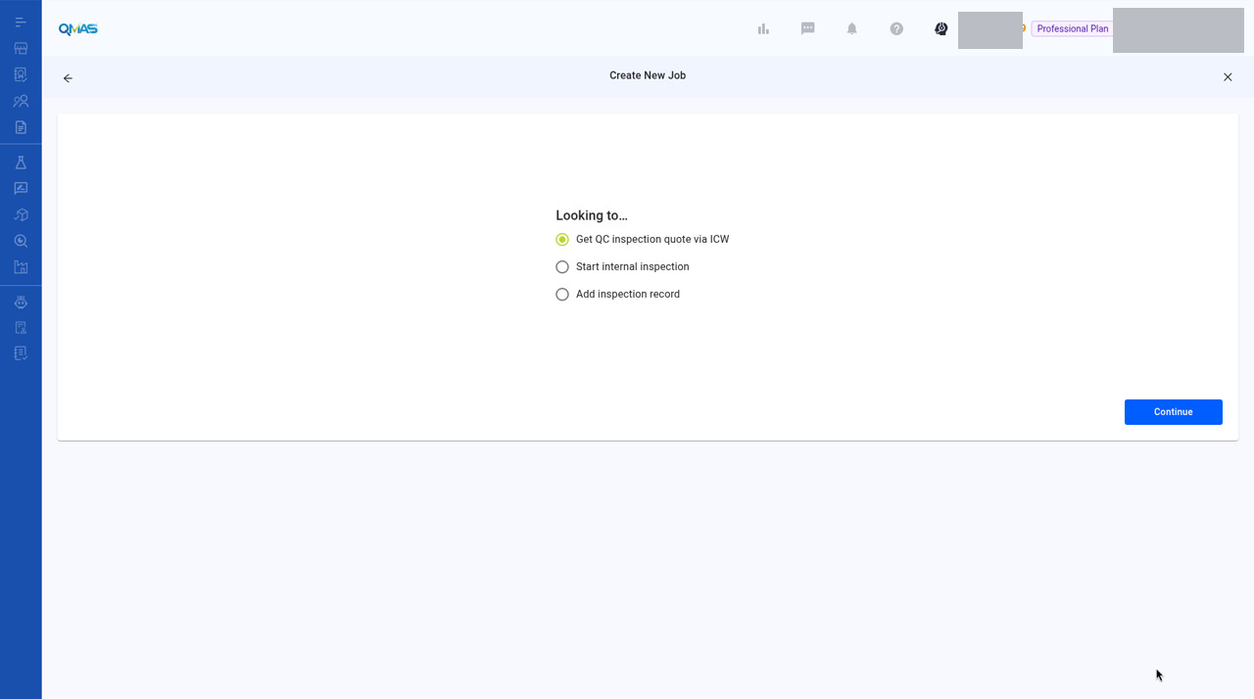
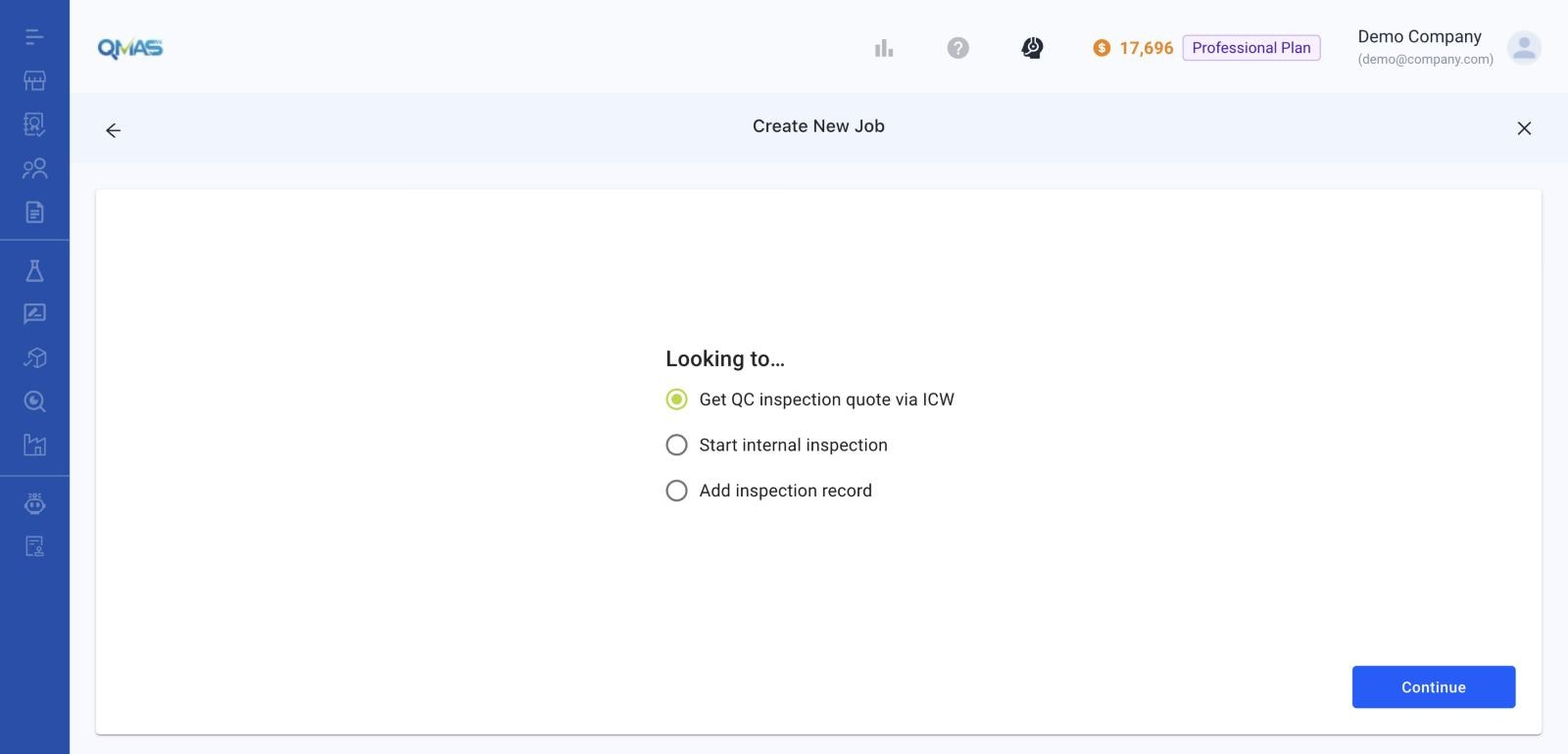
Recapture QC Inspection with demo data in HD

diff --git a/export/print/qc-inspection.html b/export/print/qc-inspection.html
@@ -467,27 +467,31 @@ caption.visually-hidden { /* name comes from the region label */ }
 <h2>Step-by-step</h2>
 <h3 id="1-open-qc-inspection">1. Open QC Inspection</h3>
 <p>In the left menu, open <strong>QC Inspection</strong>. The charts show inspection results, service providers and job types. Tabs list <strong>All Job</strong>, <strong>3rd Party Job</strong>, <strong>Inhouse Record</strong> and <strong>Draft</strong>. Click <strong>Create Job</strong>.</p>
-<figure class="shot"><img src="../../assets/reviewed/qc-inspection/01-list.jpg" alt="QC Inspection list with Create Job." width="1280" height="714" fetchpriority="high" decoding="async"><figcaption>QC Inspection list with Create Job.</figcaption></figure>
-<figure class="shot"><img src="../../assets/reviewed/qc-inspection/supplemental-3rd-party-tab.jpg" alt="QC Inspection — 3rd Party Job tab." width="1280" height="714" loading="lazy" decoding="async"><figcaption>QC Inspection — 3rd Party Job tab.</figcaption></figure>
-<figure class="shot"><img src="../../assets/reviewed/qc-inspection/supplemental-draft-tab.jpg" alt="QC Inspection — Draft tab." width="1280" height="714" loading="lazy" decoding="async"><figcaption>QC Inspection — Draft tab.</figcaption></figure>
+<figure class="shot"><img src="../../assets/reviewed/qc-inspection/01-list.jpg" alt="QC Inspection list, searched by job ID, with Create Job." width="1528" height="415" fetchpriority="high" decoding="async"><figcaption>QC Inspection list, searched by job ID, with Create Job.</figcaption></figure>
 <h3 id="2-choose-what-you-are-looking-for">2. Choose what you are looking for</h3>
 <div class="table-wrap" tabindex="0" role="region" aria-label="Option, Use it when"><table><thead><tr><th scope="col">Option</th><th scope="col">Use it when</th></tr></thead><tbody><tr><td>Get QC inspection quote via ICW</td><td>You want ICW to arrange a third-party inspector. This guide.</td></tr><tr><td>Start internal inspection</td><td>Your own QC team will inspect. See the Internal QC Inspection guide.</td></tr><tr><td>Add inspection record</td><td>The inspection is already done and you want to record the result.</td></tr></tbody></table></div>
 <p>Choose <strong>Get QC inspection quote via ICW</strong> and click <strong>Continue</strong>.</p>
-<figure class="shot"><img src="../../assets/reviewed/qc-inspection/02-looking-to.jpg" alt="Create New Job — Looking to…" width="1280" height="714" loading="lazy" decoding="async"><figcaption>Create New Job — Looking to…</figcaption></figure>
+<figure class="shot"><img src="../../assets/reviewed/qc-inspection/02-looking-to.jpg" alt="Create New Job — Looking to…" width="1600" height="770" loading="lazy" decoding="async"><figcaption>Create New Job — Looking to…</figcaption></figure>
 <h3 id="3-inspection-requirement">3. Inspection Requirement</h3>
 <ul><li><strong>Inspection Date</strong>.</li><li><strong>Inspection type</strong>: Final Random, Loading, During Production, Re-Inspection, Initial Production, Fabric, 100% or Vendor Own Inspection.</li><li><strong>Inspection Level</strong>: General Inspection Level I–III or Special Level S-1 to S-4.</li><li><strong>Inspection AQL</strong>: Critical, Major and Minor levels. They apply to all products in this job by default.</li><li><strong>Target Budget</strong> (currency and amount) and <strong>Service Provider Preference</strong>. Leave “No preference, ICW will match you with the best inspector” selected if you have no preferred provider.</li></ul>
-<figure class="shot"><img src="../../assets/reviewed/qc-inspection/supplemental-step1-requirement-blank.jpg" alt="Create Job step 1 — Inspection Requirement, including Target Budget and Service Provider Preference." width="1280" height="714" loading="lazy" decoding="async"><figcaption>Create Job step 1 — Inspection Requirement, including Target Budget and Service Provider Preference.</figcaption></figure>
+<figure class="shot"><img src="../../assets/reviewed/qc-inspection/04-step1-filled.jpg" alt="Step 1 Inspection Requirement filled in. Click Save to keep a draft, or Next." width="1600" height="1210" loading="lazy" decoding="async"><figcaption>Step 1 Inspection Requirement filled in. Click Save to keep a draft, or Next.</figcaption></figure>
 <h3 id="4-report-details">4. Report Details</h3>
 <p>Click <strong>Add Product</strong>, search for the product, click <strong>Select</strong>, then <strong>Confirm</strong>.</p>
+<figure class="shot"><img src="../../assets/reviewed/qc-inspection/05-select-product.jpg" alt="Select related product(s) — search by name, item no., supplier or factory." width="888" height="892" loading="lazy" decoding="async"><figcaption>Select related product(s) — search by name, item no., supplier or factory.</figcaption></figure>
 <p>For each product, fill in the <strong>PO</strong> details: customer name, customer PO #, PO #, order quantity and number of cartons. Use <strong>Add New PO</strong> for more POs, <strong>Add Product</strong> for more products, and <strong>Add Report</strong> or <strong>Duplicate Report</strong> if you need separate reports. Tick <strong>Signed Sample Available</strong> if there is one. Click <strong>Next</strong>.</p>
+<figure class="shot"><img src="../../assets/reviewed/qc-inspection/06-step2-report.jpg" alt="Report 1 with one product and its PO." width="1600" height="1240" loading="lazy" decoding="async"><figcaption>Report 1 with one product and its PO.</figcaption></figure>
 <h3 id="5-supplier-factory">5. Supplier &amp; Factory</h3>
 <p>Click <strong>Add Supplier</strong> and select the supplier. Then click <strong>Select Existing Factory</strong> and choose the factory where the inspection will take place. Check the contact person, phone and email for each. Click <strong>Next</strong>.</p>
+<figure class="shot"><img src="../../assets/reviewed/qc-inspection/07-step3-supplier-factory.jpg" alt="Supplier and factory selected, with contact details." width="1600" height="1270" loading="lazy" decoding="async"><figcaption>Supplier and factory selected, with contact details.</figcaption></figure>
 <h3 id="6-additional-information">6. Additional Information</h3>
 <p>Upload reference files such as tech packs or previous reports, and write any special requirement in <strong>Remark</strong>. Click <strong>Next</strong>.</p>
+<figure class="shot"><img src="../../assets/reviewed/qc-inspection/08-step4-additional.jpg" alt="Step 4 Additional Information." width="1600" height="930" loading="lazy" decoding="async"><figcaption>Step 4 Additional Information.</figcaption></figure>
 <h3 id="7-review-submit">7. Review &amp; Submit</h3>
 <p>Check the summary. Click <strong>Edit</strong> on any section to change it. Click <strong>Submit</strong>.</p>
+<figure class="shot"><img src="../../assets/reviewed/qc-inspection/09-step5-review.jpg" alt="Step 5 Review &amp; Submit." width="1600" height="2330" loading="lazy" decoding="async"><figcaption>Step 5 Review &amp; Submit.</figcaption></figure>
 <h3 id="8-done-job-detail">8. Done — job detail</h3>
 <p>QMAS shows “Create job successfully!” and opens the job. It has a Job ID and starts as <strong>Under Review</strong>. The <strong>Quotes</strong>, <strong>Reports</strong>, <strong>Attachments</strong> and <strong>Invoices</strong> tabs follow the job.</p>
+<figure class="shot"><img src="../../assets/reviewed/qc-inspection/10-job-detail.jpg" alt="The new inspection job, Under Review." width="1600" height="900" loading="lazy" decoding="async"><figcaption>The new inspection job, Under Review.</figcaption></figure>
 <h2>Tips</h2>
 <aside class="tip"><p>Click <strong>Save</strong> on any step to keep a draft. Drafts are on the <strong>Draft</strong> tab.</p></aside>
 <aside class="tip"><p>Submit well before the inspection date so there is time for quoting and booking.</p></aside>

diff --git a/export/print/qmas-user-guide.html b/export/print/qmas-user-guide.html
@@ -979,27 +979,31 @@ caption.visually-hidden { /* name comes from the region label */ }
 <h2>Step-by-step</h2>
 <h3 id="1-open-qc-inspection">1. Open QC Inspection</h3>
 <p>In the left menu, open <strong>QC Inspection</strong>. The charts show inspection results, service providers and job types. Tabs list <strong>All Job</strong>, <strong>3rd Party Job</strong>, <strong>Inhouse Record</strong> and <strong>Draft</strong>. Click <strong>Create Job</strong>.</p>
-<figure class="shot"><img src="../../assets/reviewed/qc-inspection/01-list.jpg" alt="QC Inspection list with Create Job." width="1280" height="714" fetchpriority="high" decoding="async"><figcaption>QC Inspection list with Create Job.</figcaption></figure>
-<figure class="shot"><img src="../../assets/reviewed/qc-inspection/supplemental-3rd-party-tab.jpg" alt="QC Inspection — 3rd Party Job tab." width="1280" height="714" loading="lazy" decoding="async"><figcaption>QC Inspection — 3rd Party Job tab.</figcaption></figure>
-<figure class="shot"><img src="../../assets/reviewed/qc-inspection/supplemental-draft-tab.jpg" alt="QC Inspection — Draft tab." width="1280" height="714" loading="lazy" decoding="async"><figcaption>QC Inspection — Draft tab.</figcaption></figure>
+<figure class="shot"><img src="../../assets/reviewed/qc-inspection/01-list.jpg" alt="QC Inspection list, searched by job ID, with Create Job." width="1528" height="415" fetchpriority="high" decoding="async"><figcaption>QC Inspection list, searched by job ID, with Create Job.</figcaption></figure>
 <h3 id="2-choose-what-you-are-looking-for">2. Choose what you are looking for</h3>
 <div class="table-wrap" tabindex="0" role="region" aria-label="Option, Use it when"><table><thead><tr><th scope="col">Option</th><th scope="col">Use it when</th></tr></thead><tbody><tr><td>Get QC inspection quote via ICW</td><td>You want ICW to arrange a third-party inspector. This guide.</td></tr><tr><td>Start internal inspection</td><td>Your own QC team will inspect. See the Internal QC Inspection guide.</td></tr><tr><td>Add inspection record</td><td>The inspection is already done and you want to record the result.</td></tr></tbody></table></div>
 <p>Choose <strong>Get QC inspection quote via ICW</strong> and click <strong>Continue</strong>.</p>
-<figure class="shot"><img src="../../assets/reviewed/qc-inspection/02-looking-to.jpg" alt="Create New Job — Looking to…" width="1280" height="714" loading="lazy" decoding="async"><figcaption>Create New Job — Looking to…</figcaption></figure>
+<figure class="shot"><img src="../../assets/reviewed/qc-inspection/02-looking-to.jpg" alt="Create New Job — Looking to…" width="1600" height="770" loading="lazy" decoding="async"><figcaption>Create New Job — Looking to…</figcaption></figure>
 <h3 id="3-inspection-requirement">3. Inspection Requirement</h3>
 <ul><li><strong>Inspection Date</strong>.</li><li><strong>Inspection type</strong>: Final Random, Loading, During Production, Re-Inspection, Initial Production, Fabric, 100% or Vendor Own Inspection.</li><li><strong>Inspection Level</strong>: General Inspection Level I–III or Special Level S-1 to S-4.</li><li><strong>Inspection AQL</strong>: Critical, Major and Minor levels. They apply to all products in this job by default.</li><li><strong>Target Budget</strong> (currency and amount) and <strong>Service Provider Preference</strong>. Leave “No preference, ICW will match you with the best inspector” selected if you have no preferred provider.</li></ul>
-<figure class="shot"><img src="../../assets/reviewed/qc-inspection/supplemental-step1-requirement-blank.jpg" alt="Create Job step 1 — Inspection Requirement, including Target Budget and Service Provider Preference." width="1280" height="714" loading="lazy" decoding="async"><figcaption>Create Job step 1 — Inspection Requirement, including Target Budget and Service Provider Preference.</figcaption></figure>
+<figure class="shot"><img src="../../assets/reviewed/qc-inspection/04-step1-filled.jpg" alt="Step 1 Inspection Requirement filled in. Click Save to keep a draft, or Next." width="1600" height="1210" loading="lazy" decoding="async"><figcaption>Step 1 Inspection Requirement filled in. Click Save to keep a draft, or Next.</figcaption></figure>
 <h3 id="4-report-details">4. Report Details</h3>
 <p>Click <strong>Add Product</strong>, search for the product, click <strong>Select</strong>, then <strong>Confirm</strong>.</p>
+<figure class="shot"><img src="../../assets/reviewed/qc-inspection/05-select-product.jpg" alt="Select related product(s) — search by name, item no., supplier or factory." width="888" height="892" loading="lazy" decoding="async"><figcaption>Select related product(s) — search by name, item no., supplier or factory.</figcaption></figure>
 <p>For each product, fill in the <strong>PO</strong> details: customer name, customer PO #, PO #, order quantity and number of cartons. Use <strong>Add New PO</strong> for more POs, <strong>Add Product</strong> for more products, and <strong>Add Report</strong> or <strong>Duplicate Report</strong> if you need separate reports. Tick <strong>Signed Sample Available</strong> if there is one. Click <strong>Next</strong>.</p>
+<figure class="shot"><img src="../../assets/reviewed/qc-inspection/06-step2-report.jpg" alt="Report 1 with one product and its PO." width="1600" height="1240" loading="lazy" decoding="async"><figcaption>Report 1 with one product and its PO.</figcaption></figure>
 <h3 id="5-supplier-factory">5. Supplier &amp; Factory</h3>
 <p>Click <strong>Add Supplier</strong> and select the supplier. Then click <strong>Select Existing Factory</strong> and choose the factory where the inspection will take place. Check the contact person, phone and email for each. Click <strong>Next</strong>.</p>
+<figure class="shot"><img src="../../assets/reviewed/qc-inspection/07-step3-supplier-factory.jpg" alt="Supplier and factory selected, with contact details." width="1600" height="1270" loading="lazy" decoding="async"><figcaption>Supplier and factory selected, with contact details.</figcaption></figure>
 <h3 id="6-additional-information">6. Additional Information</h3>
 <p>Upload reference files such as tech packs or previous reports, and write any special requirement in <strong>Remark</strong>. Click <strong>Next</strong>.</p>
+<figure class="shot"><img src="../../assets/reviewed/qc-inspection/08-step4-additional.jpg" alt="Step 4 Additional Information." width="1600" height="930" loading="lazy" decoding="async"><figcaption>Step 4 Additional Information.</figcaption></figure>
 <h3 id="7-review-submit">7. Review &amp; Submit</h3>
 <p>Check the summary. Click <strong>Edit</strong> on any section to change it. Click <strong>Submit</strong>.</p>
+<figure class="shot"><img src="../../assets/reviewed/qc-inspection/09-step5-review.jpg" alt="Step 5 Review &amp; Submit." width="1600" height="2330" loading="lazy" decoding="async"><figcaption>Step 5 Review &amp; Submit.</figcaption></figure>
 <h3 id="8-done-job-detail">8. Done — job detail</h3>
 <p>QMAS shows “Create job successfully!” and opens the job. It has a Job ID and starts as <strong>Under Review</strong>. The <strong>Quotes</strong>, <strong>Reports</strong>, <strong>Attachments</strong> and <strong>Invoices</strong> tabs follow the job.</p>
+<figure class="shot"><img src="../../assets/reviewed/qc-inspection/10-job-detail.jpg" alt="The new inspection job, Under Review." width="1600" height="900" loading="lazy" decoding="async"><figcaption>The new inspection job, Under Review.</figcaption></figure>
 <h2>Tips</h2>
 <aside class="tip"><p>Click <strong>Save</strong> on any step to keep a draft. Drafts are on the <strong>Draft</strong> tab.</p></aside>
 <aside class="tip"><p>Submit well before the inspection date so there is time for quoting and booking.</p></aside>

diff --git a/combined/index.html b/combined/index.html
@@ -998,27 +998,31 @@ caption.visually-hidden { /* name comes from the region label */ }
 <h2>Step-by-step</h2>
 <h3 id="1-open-qc-inspection">1. Open QC Inspection</h3>
 <p>In the left menu, open <strong>QC Inspection</strong>. The charts show inspection results, service providers and job types. Tabs list <strong>All Job</strong>, <strong>3rd Party Job</strong>, <strong>Inhouse Record</strong> and <strong>Draft</strong>. Click <strong>Create Job</strong>.</p>
-<figure class="shot"><img src="../assets/reviewed/qc-inspection/01-list.jpg" alt="QC Inspection list with Create Job." width="1280" height="714" fetchpriority="high" decoding="async"><figcaption>QC Inspection list with Create Job.</figcaption></figure>
-<figure class="shot"><img src="../assets/reviewed/qc-inspection/supplemental-3rd-party-tab.jpg" alt="QC Inspection — 3rd Party Job tab." width="1280" height="714" loading="lazy" decoding="async"><figcaption>QC Inspection — 3rd Party Job tab.</figcaption></figure>
-<figure class="shot"><img src="../assets/reviewed/qc-inspection/supplemental-draft-tab.jpg" alt="QC Inspection — Draft tab." width="1280" height="714" loading="lazy" decoding="async"><figcaption>QC Inspection — Draft tab.</figcaption></figure>
+<figure class="shot"><img src="../assets/reviewed/qc-inspection/01-list.jpg" alt="QC Inspection list, searched by job ID, with Create Job." width="1528" height="415" fetchpriority="high" decoding="async"><figcaption>QC Inspection list, searched by job ID, with Create Job.</figcaption></figure>
 <h3 id="2-choose-what-you-are-looking-for">2. Choose what you are looking for</h3>
 <div class="table-wrap" tabindex="0" role="region" aria-label="Option, Use it when"><table><thead><tr><th scope="col">Option</th><th scope="col">Use it when</th></tr></thead><tbody><tr><td>Get QC inspection quote via ICW</td><td>You want ICW to arrange a third-party inspector. This guide.</td></tr><tr><td>Start internal inspection</td><td>Your own QC team will inspect. See the Internal QC Inspection guide.</td></tr><tr><td>Add inspection record</td><td>The inspection is already done and you want to record the result.</td></tr></tbody></table></div>
 <p>Choose <strong>Get QC inspection quote via ICW</strong> and click <strong>Continue</strong>.</p>
-<figure class="shot"><img src="../assets/reviewed/qc-inspection/02-looking-to.jpg" alt="Create New Job — Looking to…" width="1280" height="714" loading="lazy" decoding="async"><figcaption>Create New Job — Looking to…</figcaption></figure>
+<figure class="shot"><img src="../assets/reviewed/qc-inspection/02-looking-to.jpg" alt="Create New Job — Looking to…" width="1600" height="770" loading="lazy" decoding="async"><figcaption>Create New Job — Looking to…</figcaption></figure>
 <h3 id="3-inspection-requirement">3. Inspection Requirement</h3>
 <ul><li><strong>Inspection Date</strong>.</li><li><strong>Inspection type</strong>: Final Random, Loading, During Production, Re-Inspection, Initial Production, Fabric, 100% or Vendor Own Inspection.</li><li><strong>Inspection Level</strong>: General Inspection Level I–III or Special Level S-1 to S-4.</li><li><strong>Inspection AQL</strong>: Critical, Major and Minor levels. They apply to all products in this job by default.</li><li><strong>Target Budget</strong> (currency and amount) and <strong>Service Provider Preference</strong>. Leave “No preference, ICW will match you with the best inspector” selected if you have no preferred provider.</li></ul>
-<figure class="shot"><img src="../assets/reviewed/qc-inspection/supplemental-step1-requirement-blank.jpg" alt="Create Job step 1 — Inspection Requirement, including Target Budget and Service Provider Preference." width="1280" height="714" loading="lazy" decoding="async"><figcaption>Create Job step 1 — Inspection Requirement, including Target Budget and Service Provider Preference.</figcaption></figure>
+<figure class="shot"><img src="../assets/reviewed/qc-inspection/04-step1-filled.jpg" alt="Step 1 Inspection Requirement filled in. Click Save to keep a draft, or Next." width="1600" height="1210" loading="lazy" decoding="async"><figcaption>Step 1 Inspection Requirement filled in. Click Save to keep a draft, or Next.</figcaption></figure>
 <h3 id="4-report-details">4. Report Details</h3>
 <p>Click <strong>Add Product</strong>, search for the product, click <strong>Select</strong>, then <strong>Confirm</strong>.</p>
+<figure class="shot"><img src="../assets/reviewed/qc-inspection/05-select-product.jpg" alt="Select related product(s) — search by name, item no., supplier or factory." width="888" height="892" loading="lazy" decoding="async"><figcaption>Select related product(s) — search by name, item no., supplier or factory.</figcaption></figure>
 <p>For each product, fill in the <strong>PO</strong> details: customer name, customer PO #, PO #, order quantity and number of cartons. Use <strong>Add New PO</strong> for more POs, <strong>Add Product</strong> for more products, and <strong>Add Report</strong> or <strong>Duplicate Report</strong> if you need separate reports. Tick <strong>Signed Sample Available</strong> if there is one. Click <strong>Next</strong>.</p>
+<figure class="shot"><img src="../assets/reviewed/qc-inspection/06-step2-report.jpg" alt="Report 1 with one product and its PO." width="1600" height="1240" loading="lazy" decoding="async"><figcaption>Report 1 with one product and its PO.</figcaption></figure>
 <h3 id="5-supplier-factory">5. Supplier &amp; Factory</h3>
 <p>Click <strong>Add Supplier</strong> and select the supplier. Then click <strong>Select Existing Factory</strong> and choose the factory where the inspection will take place. Check the contact person, phone and email for each. Click <strong>Next</strong>.</p>
+<figure class="shot"><img src="../assets/reviewed/qc-inspection/07-step3-supplier-factory.jpg" alt="Supplier and factory selected, with contact details." width="1600" height="1270" loading="lazy" decoding="async"><figcaption>Supplier and factory selected, with contact details.</figcaption></figure>
 <h3 id="6-additional-information">6. Additional Information</h3>
 <p>Upload reference files such as tech packs or previous reports, and write any special requirement in <strong>Remark</strong>. Click <strong>Next</strong>.</p>
+<figure class="shot"><img src="../assets/reviewed/qc-inspection/08-step4-additional.jpg" alt="Step 4 Additional Information." width="1600" height="930" loading="lazy" decoding="async"><figcaption>Step 4 Additional Information.</figcaption></figure>
 <h3 id="7-review-submit">7. Review &amp; Submit</h3>
 <p>Check the summary. Click <strong>Edit</strong> on any section to change it. Click <strong>Submit</strong>.</p>
+<figure class="shot"><img src="../assets/reviewed/qc-inspection/09-step5-review.jpg" alt="Step 5 Review &amp; Submit." width="1600" height="2330" loading="lazy" decoding="async"><figcaption>Step 5 Review &amp; Submit.</figcaption></figure>
 <h3 id="8-done-job-detail">8. Done — job detail</h3>
 <p>QMAS shows “Create job successfully!” and opens the job. It has a Job ID and starts as <strong>Under Review</strong>. The <strong>Quotes</strong>, <strong>Reports</strong>, <strong>Attachments</strong> and <strong>Invoices</strong> tabs follow the job.</p>
+<figure class="shot"><img src="../assets/reviewed/qc-inspection/10-job-detail.jpg" alt="The new inspection job, Under Review." width="1600" height="900" loading="lazy" decoding="async"><figcaption>The new inspection job, Under Review.</figcaption></figure>
 <h2>Tips</h2>
 <aside class="tip"><p>Click <strong>Save</strong> on any step to keep a draft. Drafts are on the <strong>Draft</strong> tab.</p></aside>
 <aside class="tip"><p>Submit well before the inspection date so there is time for quoting and booking.</p></aside>

diff --git a/qc-inspection/index.html b/qc-inspection/index.html
@@ -468,27 +468,31 @@ caption.visually-hidden { /* name comes from the region label */ }
 <h2>Step-by-step</h2>
 <h3 id="1-open-qc-inspection">1. Open QC Inspection</h3>
 <p>In the left menu, open <strong>QC Inspection</strong>. The charts show inspection results, service providers and job types. Tabs list <strong>All Job</strong>, <strong>3rd Party Job</strong>, <strong>Inhouse Record</strong> and <strong>Draft</strong>. Click <strong>Create Job</strong>.</p>
-<figure class="shot"><img src="../assets/reviewed/qc-inspection/01-list.jpg" alt="QC Inspection list with Create Job." width="1280" height="714" fetchpriority="high" decoding="async"><figcaption>QC Inspection list with Create Job.</figcaption></figure>
-<figure class="shot"><img src="../assets/reviewed/qc-inspection/supplemental-3rd-party-tab.jpg" alt="QC Inspection — 3rd Party Job tab." width="1280" height="714" loading="lazy" decoding="async"><figcaption>QC Inspection — 3rd Party Job tab.</figcaption></figure>
-<figure class="shot"><img src="../assets/reviewed/qc-inspection/supplemental-draft-tab.jpg" alt="QC Inspection — Draft tab." width="1280" height="714" loading="lazy" decoding="async"><figcaption>QC Inspection — Draft tab.</figcaption></figure>
+<figure class="shot"><img src="../assets/reviewed/qc-inspection/01-list.jpg" alt="QC Inspection list, searched by job ID, with Create Job." width="1528" height="415" fetchpriority="high" decoding="async"><figcaption>QC Inspection list, searched by job ID, with Create Job.</figcaption></figure>
 <h3 id="2-choose-what-you-are-looking-for">2. Choose what you are looking for</h3>
 <div class="table-wrap" tabindex="0" role="region" aria-label="Option, Use it when"><table><thead><tr><th scope="col">Option</th><th scope="col">Use it when</th></tr></thead><tbody><tr><td>Get QC inspection quote via ICW</td><td>You want ICW to arrange a third-party inspector. This guide.</td></tr><tr><td>Start internal inspection</td><td>Your own QC team will inspect. See the Internal QC Inspection guide.</td></tr><tr><td>Add inspection record</td><td>The inspection is already done and you want to record the result.</td></tr></tbody></table></div>
 <p>Choose <strong>Get QC inspection quote via ICW</strong> and click <strong>Continue</strong>.</p>
-<figure class="shot"><img src="../assets/reviewed/qc-inspection/02-looking-to.jpg" alt="Create New Job — Looking to…" width="1280" height="714" loading="lazy" decoding="async"><figcaption>Create New Job — Looking to…</figcaption></figure>
+<figure class="shot"><img src="../assets/reviewed/qc-inspection/02-looking-to.jpg" alt="Create New Job — Looking to…" width="1600" height="770" loading="lazy" decoding="async"><figcaption>Create New Job — Looking to…</figcaption></figure>
 <h3 id="3-inspection-requirement">3. Inspection Requirement</h3>
 <ul><li><strong>Inspection Date</strong>.</li><li><strong>Inspection type</strong>: Final Random, Loading, During Production, Re-Inspection, Initial Production, Fabric, 100% or Vendor Own Inspection.</li><li><strong>Inspection Level</strong>: General Inspection Level I–III or Special Level S-1 to S-4.</li><li><strong>Inspection AQL</strong>: Critical, Major and Minor levels. They apply to all products in this job by default.</li><li><strong>Target Budget</strong> (currency and amount) and <strong>Service Provider Preference</strong>. Leave “No preference, ICW will match you with the best inspector” selected if you have no preferred provider.</li></ul>
-<figure class="shot"><img src="../assets/reviewed/qc-inspection/supplemental-step1-requirement-blank.jpg" alt="Create Job step 1 — Inspection Requirement, including Target Budget and Service Provider Preference." width="1280" height="714" loading="lazy" decoding="async"><figcaption>Create Job step 1 — Inspection Requirement, including Target Budget and Service Provider Preference.</figcaption></figure>
+<figure class="shot"><img src="../assets/reviewed/qc-inspection/04-step1-filled.jpg" alt="Step 1 Inspection Requirement filled in. Click Save to keep a draft, or Next." width="1600" height="1210" loading="lazy" decoding="async"><figcaption>Step 1 Inspection Requirement filled in. Click Save to keep a draft, or Next.</figcaption></figure>
 <h3 id="4-report-details">4. Report Details</h3>
 <p>Click <strong>Add Product</strong>, search for the product, click <strong>Select</strong>, then <strong>Confirm</strong>.</p>
+<figure class="shot"><img src="../assets/reviewed/qc-inspection/05-select-product.jpg" alt="Select related product(s) — search by name, item no., supplier or factory." width="888" height="892" loading="lazy" decoding="async"><figcaption>Select related product(s) — search by name, item no., supplier or factory.</figcaption></figure>
 <p>For each product, fill in the <strong>PO</strong> details: customer name, customer PO #, PO #, order quantity and number of cartons. Use <strong>Add New PO</strong> for more POs, <strong>Add Product</strong> for more products, and <strong>Add Report</strong> or <strong>Duplicate Report</strong> if you need separate reports. Tick <strong>Signed Sample Available</strong> if there is one. Click <strong>Next</strong>.</p>
+<figure class="shot"><img src="../assets/reviewed/qc-inspection/06-step2-report.jpg" alt="Report 1 with one product and its PO." width="1600" height="1240" loading="lazy" decoding="async"><figcaption>Report 1 with one product and its PO.</figcaption></figure>
 <h3 id="5-supplier-factory">5. Supplier &amp; Factory</h3>
 <p>Click <strong>Add Supplier</strong> and select the supplier. Then click <strong>Select Existing Factory</strong> and choose the factory where the inspection will take place. Check the contact person, phone and email for each. Click <strong>Next</strong>.</p>
+<figure class="shot"><img src="../assets/reviewed/qc-inspection/07-step3-supplier-factory.jpg" alt="Supplier and factory selected, with contact details." width="1600" height="1270" loading="lazy" decoding="async"><figcaption>Supplier and factory selected, with contact details.</figcaption></figure>
 <h3 id="6-additional-information">6. Additional Information</h3>
 <p>Upload reference files such as tech packs or previous reports, and write any special requirement in <strong>Remark</strong>. Click <strong>Next</strong>.</p>
+<figure class="shot"><img src="../assets/reviewed/qc-inspection/08-step4-additional.jpg" alt="Step 4 Additional Information." width="1600" height="930" loading="lazy" decoding="async"><figcaption>Step 4 Additional Information.</figcaption></figure>
 <h3 id="7-review-submit">7. Review &amp; Submit</h3>
 <p>Check the summary. Click <strong>Edit</strong> on any section to change it. Click <strong>Submit</strong>.</p>
+<figure class="shot"><img src="../assets/reviewed/qc-inspection/09-step5-review.jpg" alt="Step 5 Review &amp; Submit." width="1600" height="2330" loading="lazy" decoding="async"><figcaption>Step 5 Review &amp; Submit.</figcaption></figure>
 <h3 id="8-done-job-detail">8. Done — job detail</h3>
 <p>QMAS shows “Create job successfully!” and opens the job. It has a Job ID and starts as <strong>Under Review</strong>. The <strong>Quotes</strong>, <strong>Reports</strong>, <strong>Attachments</strong> and <strong>Invoices</strong> tabs follow the job.</p>
+<figure class="shot"><img src="../assets/reviewed/qc-inspection/10-job-detail.jpg" alt="The new inspection job, Under Review." width="1600" height="900" loading="lazy" decoding="async"><figcaption>The new inspection job, Under Review.</figcaption></figure>
 <h2>Tips</h2>
 <aside class="tip"><p>Click <strong>Save</strong> on any step to keep a draft. Drafts are on the <strong>Draft</strong> tab.</p></aside>
 <aside class="tip"><p>Submit well before the inspection date so there is time for quoting and booking.</p></aside>

diff --git a/tests/test_exports.py b/tests/test_exports.py
@@ -50,7 +50,7 @@ CLEAN_MODULES = {
     "product-testing", "qc-inspection", "supplier-management", "test-plan", "factory-audit",
 }
 # Modules whose screenshots have all been retaken with demo data.
-FULL_IMAGE_MODULES = {"product-profile", "supplier-management", "factory-management", "product-management", "product-testing", "document-management", "document-review", "efiling"}
+FULL_IMAGE_MODULES = {"product-profile", "supplier-management", "factory-management", "product-management", "product-testing", "document-management", "document-review", "efiling", "qc-inspection"}
 
 
 def skipped(slug: str, block: str) -> bool:
@@ -82,9 +82,6 @@ class GuideContentTests(unittest.TestCase):
         self.assertEqual(set(supplementary), {
             ("factory-management", "required-validation.jpg"),
             ("factory-management", "supplemental-profile-certificate.jpg"),
-            ("qc-inspection", "supplemental-step1-requirement-blank.jpg"),
-            ("qc-inspection", "supplemental-3rd-party-tab.jpg"),
-            ("qc-inspection", "supplemental-draft-tab.jpg"),
             ("supplier-management", "supplemental-profile-certificate.jpg"),
         })
 

diff --git a/export/markdown/qmas-user-guide.md b/export/markdown/qmas-user-guide.md
@@ -1280,20 +1280,10 @@ Ask ICW to quote and arrange a third-party QC inspection for your products.
 
 In the left menu, open **QC Inspection**. The charts show inspection results, service providers and job types. Tabs list **All Job**, **3rd Party Job**, **Inhouse Record** and **Draft**. Click **Create Job**.
 
-![QC Inspection list with Create Job.](images/qc-inspection/01-list.jpg)
+![QC Inspection list, searched by job ID, with Create Job.](images/qc-inspection/01-list.jpg)
 
 
-*QC Inspection list with Create Job.*
-
-![QC Inspection — 3rd Party Job tab.](images/qc-inspection/supplemental-3rd-party-tab.jpg)
-
-
-*QC Inspection — 3rd Party Job tab.*
-
-![QC Inspection — Draft tab.](images/qc-inspection/supplemental-draft-tab.jpg)
-
-
-*QC Inspection — Draft tab.*
+*QC Inspection list, searched by job ID, with Create Job.*
 
 
 ### 2. Choose what you are looking for
@@ -1320,44 +1310,67 @@ Choose **Get QC inspection quote via ICW** and click **Continue**.
 - **Inspection AQL**: Critical, Major and Minor levels. They apply to all products in this job by default.
 - **Target Budget** (currency and amount) and **Service Provider Preference**. Leave “No preference, ICW will match you with the best inspector” selected if you have no preferred provider.
 
-![Create Job step 1 — Inspection Requirement, including Target Budget and Service Provider Preference.](images/qc-inspection/supplemental-step1-requirement-blank.jpg)
+![Step 1 Inspection Requirement filled in. Click Save to keep a draft, or Next.](images/qc-inspection/04-step1-filled.jpg)
 
 
-*Create Job step 1 — Inspection Requirement, including Target Budget and Service Provider Preference.*
-
+*Step 1 Inspection Requirement filled in. Click Save to keep a draft, or Next.*
 
 
 ### 4. Report Details
 
 Click **Add Product**, search for the product, click **Select**, then **Confirm**.
 
+![Select related product(s) — search by name, item no., supplier or factory.](images/qc-inspection/05-select-product.jpg)
+
+
+*Select related product(s) — search by name, item no., supplier or factory.*
 
 For each product, fill in the **PO** details: customer name, customer PO #, PO #, order quantity and number of cartons. Use **Add New PO** for more POs, **Add Product** for more products, and **Add Report** or **Duplicate Report** if you need separate reports. Tick **Signed Sample Available** if there is one. Click **Next**.
 
+![Report 1 with one product and its PO.](images/qc-inspection/06-step2-report.jpg)
+
+
+*Report 1 with one product and its PO.*
 
 
 ### 5. Supplier & Factory
 
 Click **Add Supplier** and select the supplier. Then click **Select Existing Factory** and choose the factory where the inspection will take place. Check the contact person, phone and email for each. Click **Next**.
 
+![Supplier and factory selected, with contact details.](images/qc-inspection/07-step3-supplier-factory.jpg)
+
+
+*Supplier and factory selected, with contact details.*
 
 
 ### 6. Additional Information
 
 Upload reference files such as tech packs or previous reports, and write any special requirement in **Remark**. Click **Next**.
 
+![Step 4 Additional Information.](images/qc-inspection/08-step4-additional.jpg)
+
+
+*Step 4 Additional Information.*
 
 
 ### 7. Review & Submit
 
 Check the summary. Click **Edit** on any section to change it. Click **Submit**.
 
+![Step 5 Review & Submit.](images/qc-inspection/09-step5-review.jpg)
+
+
+*Step 5 Review & Submit.*
 
 
 ### 8. Done — job detail
 
 QMAS shows “Create job successfully!” and opens the job. It has a Job ID and starts as **Under Review**. The **Quotes**, **Reports**, **Attachments** and **Invoices** tabs follow the job.
 
+![The new inspection job, Under Review.](images/qc-inspection/10-job-detail.jpg)
+
+
+*The new inspection job, Under Review.*
 
 
 ## Tips

diff --git a/export/markdown/qc-inspection.md b/export/markdown/qc-inspection.md
@@ -29,20 +29,10 @@ Ask ICW to quote and arrange a third-party QC inspection for your products.
 
 In the left menu, open **QC Inspection**. The charts show inspection results, service providers and job types. Tabs list **All Job**, **3rd Party Job**, **Inhouse Record** and **Draft**. Click **Create Job**.
 
-![QC Inspection list with Create Job.](images/qc-inspection/01-list.jpg)
+![QC Inspection list, searched by job ID, with Create Job.](images/qc-inspection/01-list.jpg)
 
 
-*QC Inspection list with Create Job.*
-
-![QC Inspection — 3rd Party Job tab.](images/qc-inspection/supplemental-3rd-party-tab.jpg)
-
-
-*QC Inspection — 3rd Party Job tab.*
-
-![QC Inspection — Draft tab.](images/qc-inspection/supplemental-draft-tab.jpg)
-
-
-*QC Inspection — Draft tab.*
+*QC Inspection list, searched by job ID, with Create Job.*
 
 
 ### 2. Choose what you are looking for
@@ -69,44 +59,67 @@ Choose **Get QC inspection quote via ICW** and click **Continue**.
 - **Inspection AQL**: Critical, Major and Minor levels. They apply to all products in this job by default.
 - **Target Budget** (currency and amount) and **Service Provider Preference**. Leave “No preference, ICW will match you with the best inspector” selected if you have no preferred provider.
 
-![Create Job step 1 — Inspection Requirement, including Target Budget and Service Provider Preference.](images/qc-inspection/supplemental-step1-requirement-blank.jpg)
+![Step 1 Inspection Requirement filled in. Click Save to keep a draft, or Next.](images/qc-inspection/04-step1-filled.jpg)
 
 
-*Create Job step 1 — Inspection Requirement, including Target Budget and Service Provider Preference.*
-
+*Step 1 Inspection Requirement filled in. Click Save to keep a draft, or Next.*
 
 
 ### 4. Report Details
 
 Click **Add Product**, search for the product, click **Select**, then **Confirm**.
 
+![Select related product(s) — search by name, item no., supplier or factory.](images/qc-inspection/05-select-product.jpg)
+
+
+*Select related product(s) — search by name, item no., supplier or factory.*
 
 For each product, fill in the **PO** details: customer name, customer PO #, PO #, order quantity and number of cartons. Use **Add New PO** for more POs, **Add Product** for more products, and **Add Report** or **Duplicate Report** if you need separate reports. Tick **Signed Sample Available** if there is one. Click **Next**.
 
+![Report 1 with one product and its PO.](images/qc-inspection/06-step2-report.jpg)
+
+
+*Report 1 with one product and its PO.*
 
 
 ### 5. Supplier & Factory
 
 Click **Add Supplier** and select the supplier. Then click **Select Existing Factory** and choose the factory where the inspection will take place. Check the contact person, phone and email for each. Click **Next**.
 
+![Supplier and factory selected, with contact details.](images/qc-inspection/07-step3-supplier-factory.jpg)
+
+
+*Supplier and factory selected, with contact details.*
 
 
 ### 6. Additional Information
 
 Upload reference files such as tech packs or previous reports, and write any special requirement in **Remark**. Click **Next**.
 
+![Step 4 Additional Information.](images/qc-inspection/08-step4-additional.jpg)
+
+
+*Step 4 Additional Information.*
 
 
 ### 7. Review & Submit
 
 Check the summary. Click **Edit** on any section to change it. Click **Submit**.
 
+![Step 5 Review & Submit.](images/qc-inspection/09-step5-review.jpg)
+
+
+*Step 5 Review & Submit.*
 
 
 ### 8. Done — job detail
 
 QMAS shows “Create job successfully!” and opens the job. It has a Job ID and starts as **Under Review**. The **Quotes**, **Reports**, **Attachments** and **Invoices** tabs follow the job.
 
+![The new inspection job, Under Review.](images/qc-inspection/10-job-detail.jpg)
+
+
+*The new inspection job, Under Review.*
 
 
 ## Tips
